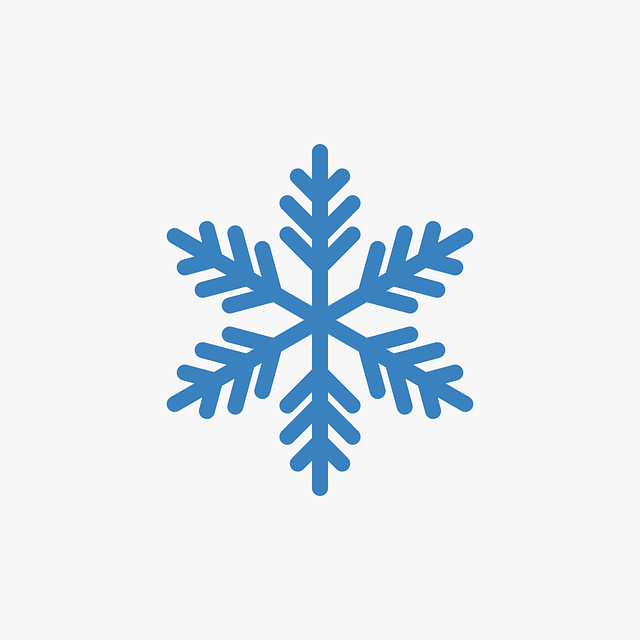
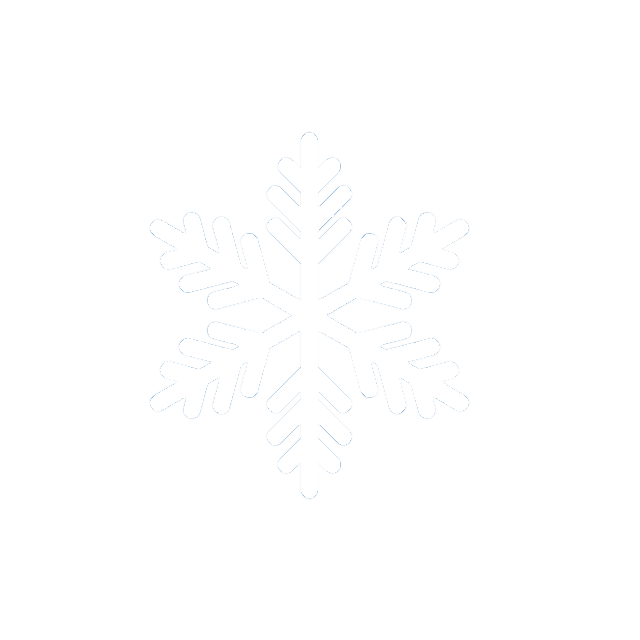
refreshed scripts file for js and updated imgs

Changed region(s): [[0.25, 0.2188, 0.75, 0.7812]]

diff --git a/index.html b/index.html
@@ -9,7 +9,7 @@
   </head>
   <body>
     <div class="top-section">
-        <h1>Sut mae'r tywydd heddiw?</h1>
+        <header class="text-header">Sut mae'r tywydd heddiw?</header>
     </div>
     <!-- section for revision block -->
 
@@ -33,7 +33,7 @@
         </div>
         <div class="card">
             <img class="front" src="assets/images/game/umbrella.png" alt="Umbrella" />
-            <img class="back" src="assets/images/game/snow.png" alt="Snow cloud" />
+            <img class="back" id="snow" src="assets/images/game/snow.png" alt="Snow cloud" />
         </div>
         <div class="card">
             <img class="front" src="assets/images/game/umbrella.png" alt="Umbrella"/>
@@ -73,11 +73,11 @@
         </div>
         <div class="card">
             <img class="front" src="assets/images/game/umbrella.png" alt="Umbrella" />
-            <img class="back" src="assets/images/game/stormus.png" alt="Cymylog" />
+            <img class="back" src="assets/images/game/bwrwglaw.png" alt="Bwrw Glaw" />
         </div>
         <div class="card">
             <img class="front" src="assets/images/game/umbrella.png" alt="Umbrella" />
-            <img class="back" src="assets/images/game/stormus.png" alt="Cymylog" />
+            <img class="back" src="assets/images/game/bwrweira.png" alt="Bwrw Eira" />
         </div>
         
 
@@ -92,6 +92,6 @@
 
     
     
-    <script src="scripts.js"></script>
+    <script src="assets/js/scripts.js"></script>
   </body>
 </html>

diff --git a/assets/css/style.css b/assets/css/style.css
@@ -4,14 +4,27 @@
     box-sizing: border-box;
 }
 
+body {
+    height: 100vh;
+    display: grid;
+}
 .top-section {
-    height: 350px;
+    height: 1000px;
     width: 100%;
     background: url("../images/forecast-map.jpg") no-repeat center center;
     background-size: cover;
-    opacity: 0.6;
+    opacity: 0.3;
 }
 
+.text-header {
+    margin: auto;
+    text-align: center;
+    font-size: 40px;
+    font-family: 'Segoe UI', Tahoma, Geneva, Verdana, sans-serif;
+    padding-top: 1%;
+    font-weight: bold;
+    margin-bottom: 30px;
+}
 .memory-game {
     width: 800px;
     height: 800px;
@@ -22,10 +35,16 @@
 }
 .card {
     width: calc(25% - 10px);
-    height: 25%;
+    height: calc(25% - 10px);
     position: relative;
     border: 2px solid #00ff55;
     margin: 5px;
+    transform: scale(1);
+}
+
+.card:active {
+    transform: scale(.97);
+    transition: transform .2s;
 }
 .front, .back {
     width: 100%;
@@ -33,6 +52,9 @@
     padding: 10px;
     position: absolute;
     border: 2px solid #ff00dd;
-    background: blue;
-}
+    }
 
+#snow {
+    background-color: #577590;
+    color: azure;
+}

diff --git a/assets/js/scripts.js b/assets/js/scripts.js
@@ -1,0 +1,6 @@
+const cards = document.querySelectorAll('.card')
+
+function flipCard() {
+    this.classlist.toggle('flip')
+}
+cards.forEach(card => card.addEventListener('click', flipCard));

diff --git a/README.md b/README.md
@@ -1,5 +1,3 @@
-![CI logo](https://codeinstitute.s3.amazonaws.com/fullstack/ci_logo_small.png)
-
 Welcome,
 
 This is the Code Institute student template for Codeanywhere. If you are using Gitpod then you need [this template](https://github.com/Code-Institute-Org/gitpod-full-template) instead.  We have preinstalled all of the tools you need to get started. It's perfectly ok to use this template as the basis for your project submissions.
@@ -21,9 +19,6 @@ To run a frontend (HTML, CSS, Javascript only) application in Codeanywhere with 
 To run a backend Python file, type `python3 app.py`, if your Python file is named `app.py` of course.
 
 A button should appear to click: _Open Preview_ or _Open Browser_.
-
-In Codeanywhere you have superuser security privileges by default. Therefore you do not need to use the `sudo` (superuser do) command in the bash terminal in any of the lessons.
-
 
 # Sut mae'r tywydd heddiw? \(SMTH?\)
 
